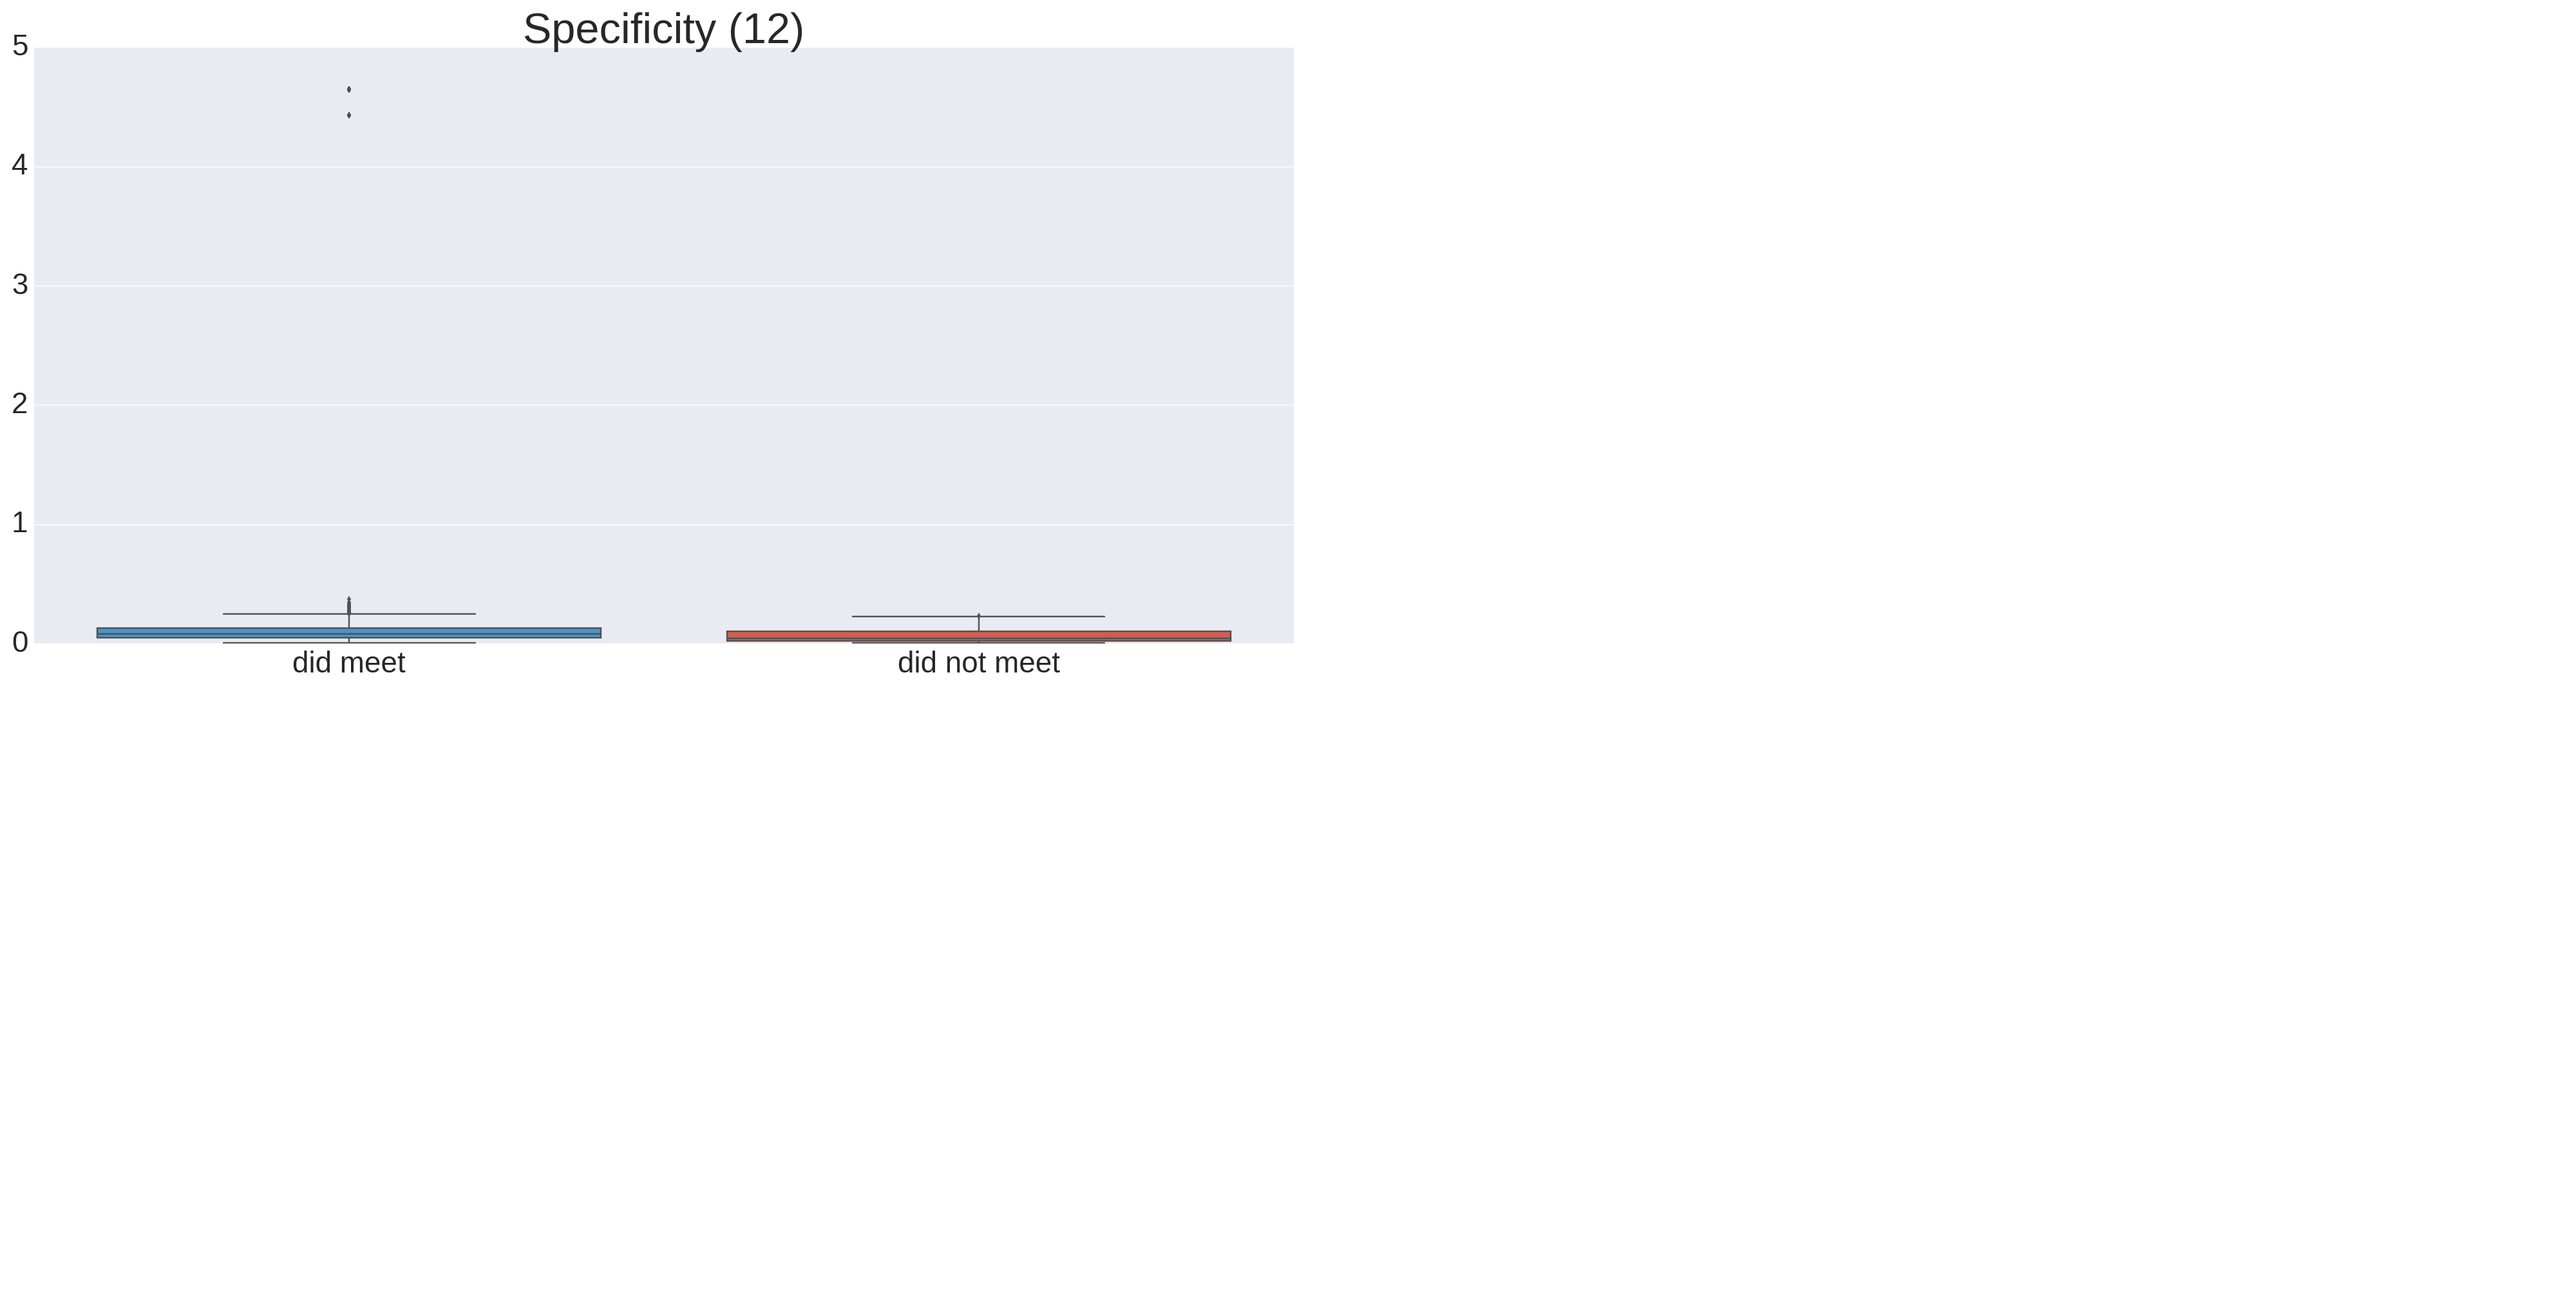
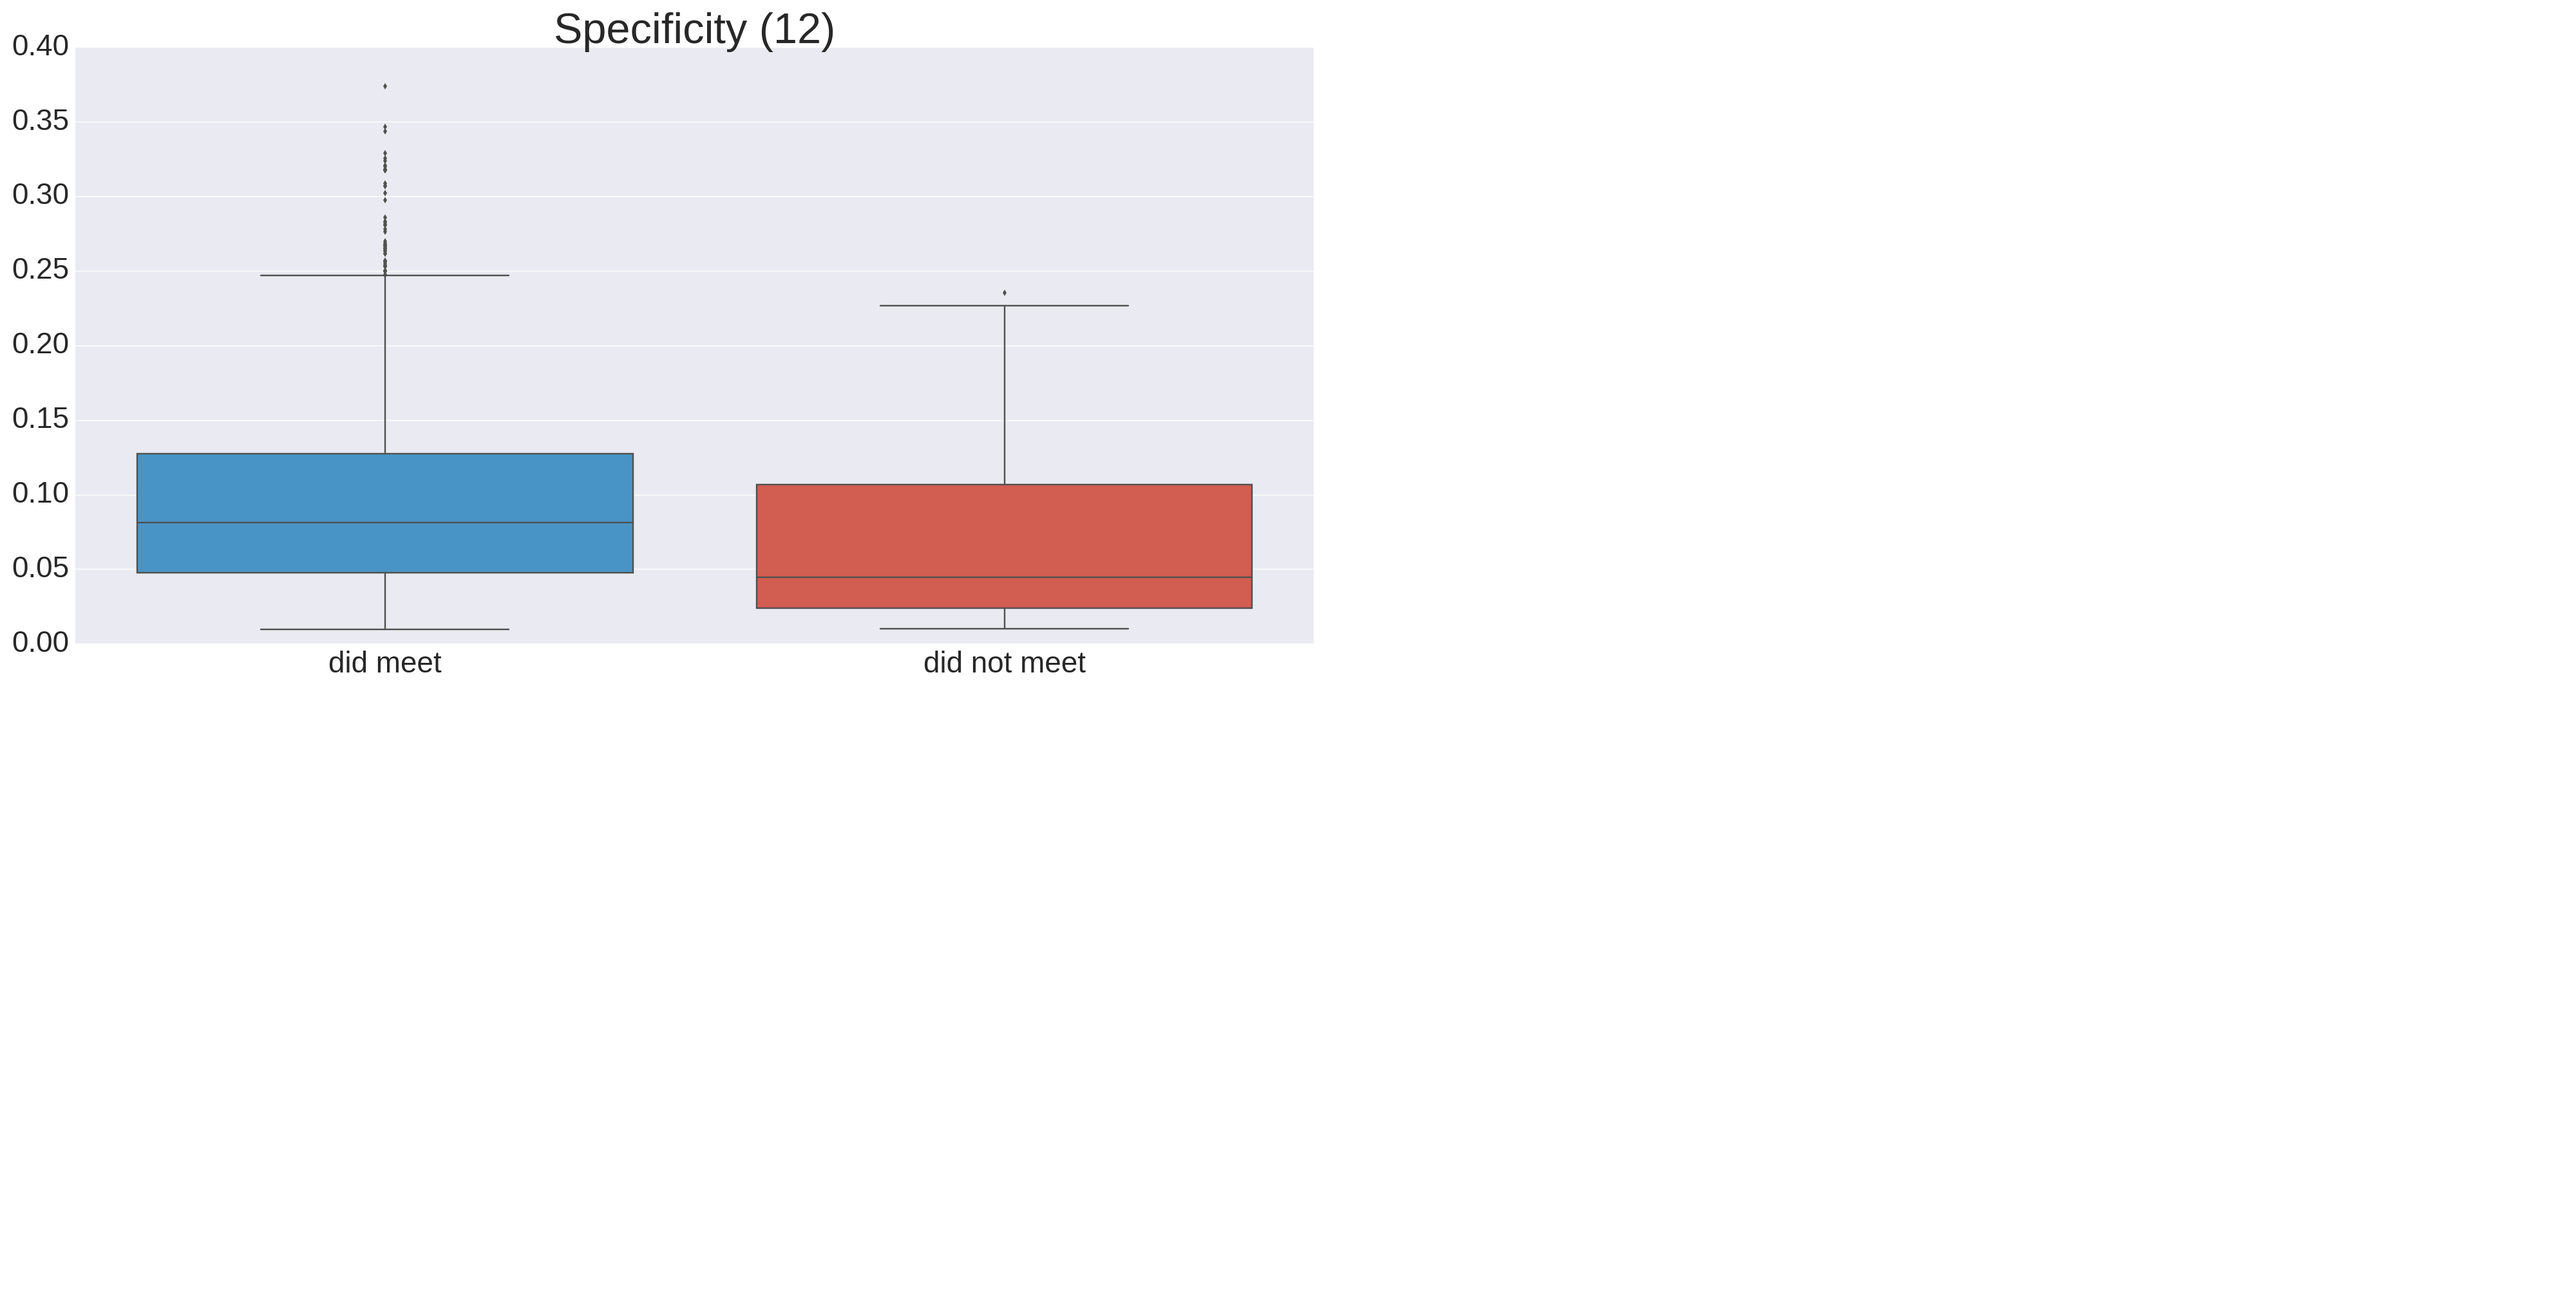
Outliers in PP-2 removed

diff --git a/report/results.tex b/report/results.tex
@@ -237,7 +237,7 @@ Looking at Figure \ref{fig:feature_boxplots1} to \ref{fig:feature_boxplots5} we 
     \hspace*{-1.0cm}
     \centering
     \includegraphics[scale=0.15]{feature_boxplots1_PP2}
-    \caption{Boxplots of and barplots of features of PP2}
+    \caption{Boxplots of and barplots of features of PP-2}
     \label{fig:feature_boxplots1_pp2}
 \end{figure}
 
@@ -245,17 +245,18 @@ Looking at Figure \ref{fig:feature_boxplots1} to \ref{fig:feature_boxplots5} we 
     \hspace*{-1.0cm}
     \centering
     \includegraphics[scale=0.15]{feature_boxplots2_PP2}
-    \caption{Boxplots of features of PP2}
+    \caption{Boxplots of features of PP-2}
     \label{fig:feature_boxplots2_pp2}
 \end{figure}
 \begin{figure}[H]
     \hspace*{-1.0cm}
     \centering
     \includegraphics[scale=0.15]{feature_boxplots_3_PP2_cropped}
-    \caption{Boxplots and barplots of features of PP2}
+    \caption{Boxplots and barplots of features of PP-2}
     \label{fig:feature_boxplots3_pp2}
 \end{figure}
 
+We found two outliers in specificity (12) for PP-2 which does not make sence. There were also strange outliers in feature 7, 3, 2 and 4. When we removed the two outliers from specificity, the strange outliers in the other features disapeared. This meant there were two person which had bad features for some reasons. We do not know why and how these occurred. 
 \section{Summary}
 In this section we will present the most important results.
 

diff --git a/tools/scripts/feature_histograms.py b/tools/scripts/feature_histograms.py
@@ -22,6 +22,12 @@ def load_x_and_y(path):
     return X_train, y_train, X_test, y_test
 
 
+def remove_outliers(meets, nonmeets):
+    #find rows specificity > 1
+    bad_rows = np.where(meets[:, 8] > 1)[0]
+    meets = np.delete(meets, bad_rows, 0)
+    #nonmeets = np.delete(nonmeets, bad_rows, 0)
+    return meets, nonmeets
 
 
 def hist(is_prod=True):
@@ -44,6 +50,7 @@ def hist(is_prod=True):
 
     meets = X_train[np.where(y_train == 1)]
     nonmeets = X_train[np.where(y_train == 0)]
+    meets, nonmeets = remove_outliers(meets, nonmeets)
     figure = 1
     f = plt.figure(figure, figsize=(10, 10))
     plot_index = 1
@@ -81,4 +88,4 @@ def hist(is_prod=True):
 
 
 if __name__ == '__main__':
-    hist(False)
+    hist()
